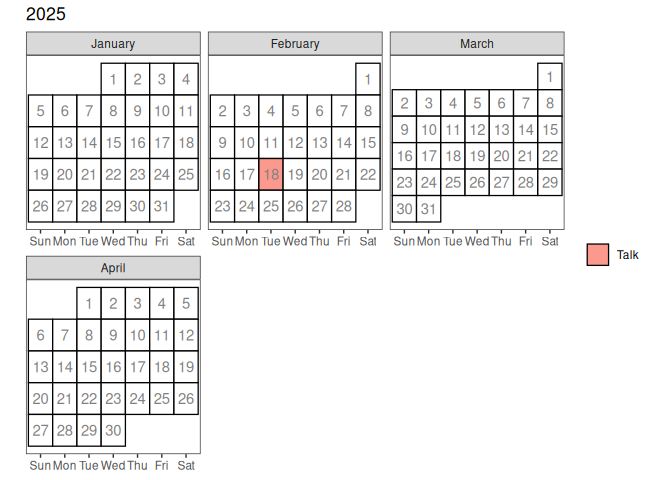
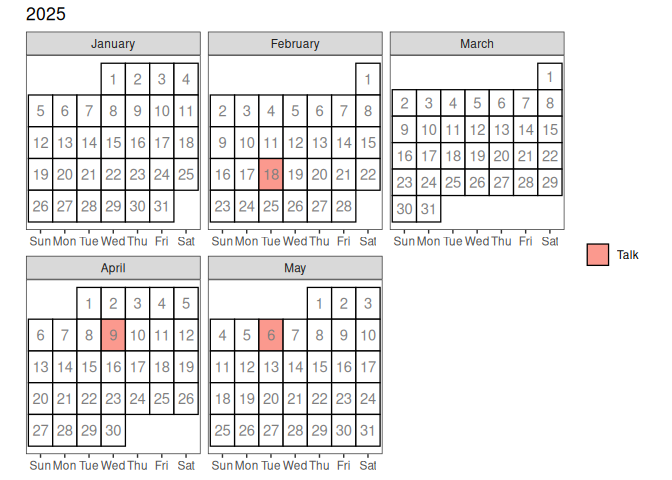
Update calendar

Changed region(s): [[0.3125, 0.5312, 0.5938, 1.0], [0.125, 0.6562, 0.1875, 0.75]]

diff --git a/README.md b/README.md
@@ -8,8 +8,10 @@ Sign up for the Nebraska R User Group on
 
 ![](README_files/figure-gfm/calendar-1.png)<!-- -->
 
-| Date | Title | Speaker | Slides |
+| Date | Title | Speaker | Materials |
 |:---|:---|:---|:---|
 | 2024-10-29 | Meetup |  |  |
 | 2024-12-04 | Extensions to ggplot2 are easy – right? | [Heike Hofmann](https://github.com/heike) | [html](https://heike.github.io/NebRUG-2024/2024-12-04-ggplot2-extensions/ggplot2-extensions.html), [pdf](https://heike.github.io/NebRUG-2024/2024-12-04-ggplot2-extensions/ggplot2-extensions.pdf) |
-| 2025-02-18 | Talking to LLMs Through R | [Matt Waite](https://github.com/mattwaite) |  |
+| 2025-02-18 | Talking to LLMs Through R | [Matt Waite](https://github.com/mattwaite) | [blogpost](https://neb-rug.github.io/posts/talking_to_llms/) |
+| 2025-04-09 | Creating Beautiful PDFs via HTML/CSS/JS | [Yihui Xie](https://yihui.org/) | [slides](https://slides.yihui.org/2025-pages-litedown.html) |
+| 2025-05-06 | TBA | [Collin Berke](https://www.collinberke.com/) |  |
